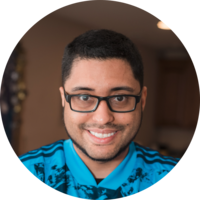
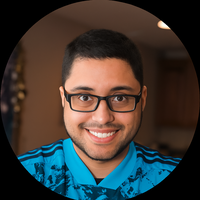
change the main picture

diff --git a/index.html b/index.html
@@ -20,7 +20,7 @@
 				<!-- Main -->
 					<section id="main">
 						<header>
-							<span class="avatar"><img src="images/geanderson.png" alt="" /></span>
+							<span class="avatar"><img src="images/geanderson_2.png" alt="" /></span>
 							<h1>Geanderson Santos</h1>
 							<p>Computer Geek</p>
 						</header>
